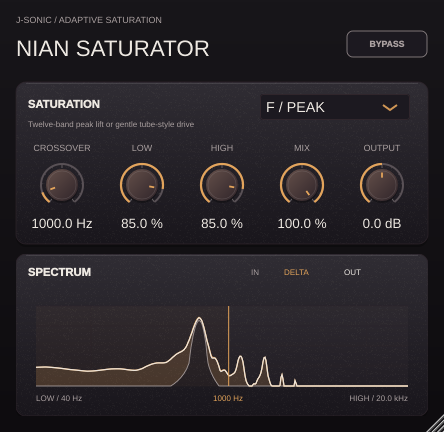
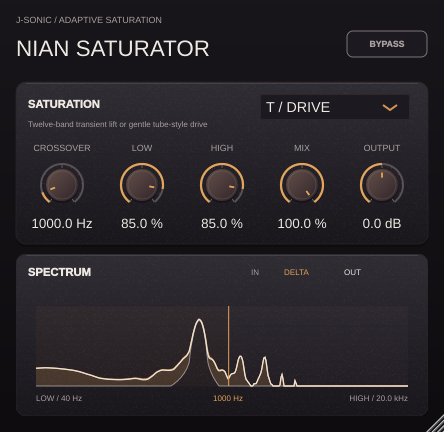
Make Nian F mode transient-only

diff --git a/projects/NianSaturator/Source/PluginProcessor.cpp b/projects/NianSaturator/Source/PluginProcessor.cpp
@@ -21,7 +21,7 @@ juce::AudioProcessorEditor* NianSaturatorProcessor::createEditor() { return new 
 void NianSaturatorProcessor::getStateInformation(juce::MemoryBlock& data) { if(auto xml=parameters.copyState().createXml()) copyXmlToBinary(*xml,data); }
 void NianSaturatorProcessor::setStateInformation(const void* data,int size) { if(auto xml=getXmlFromBinary(data,size)) if(xml->hasTagName(parameters.state.getType())) parameters.replaceState(juce::ValueTree::fromXml(*xml)); }
 juce::AudioProcessor* JUCE_CALLTYPE createPluginFilter() { return new NianSaturatorProcessor(); }
-void NianSaturatorProcessor::prepareToPlay(double rate,int) { stopAnalysisWorker(); sampleRate=4.f*float(std::isfinite(rate)&&rate>=8000?rate:48000); ring.fill(0); spectrum.fill(0); lowState={}; z1={}; z2={}; coefficientState={}; tubeDcState={}; tubeRmsState={}; tubeGainState={{{1,1},{1,1}}}; peakTarget={}; peakEnvelope={}; pendingPeakFrequency={}; retuning={}; ringPosition=analysisCounter=0; fSuspended=tubeSuspended=false; recentInputPeak=0; recoveryMix=1; analysisGeneration=0; lastPeakMode=parameters.getRawParameterValue("mode")->load()<.5f;
+void NianSaturatorProcessor::prepareToPlay(double rate,int) { stopAnalysisWorker(); sampleRate=4.f*float(std::isfinite(rate)&&rate>=8000?rate:48000); ring.fill(0); spectrum.fill(0); lowState={}; z1={}; z2={}; coefficientState={}; tubeDcState={}; tubeRmsState={}; tubeGainState={{{1,1},{1,1}}}; peakTarget={}; peakEnvelope={}; peakHoldSamples={}; peakCooldownSamples={}; recentPeakSamples={}; pendingPeakFrequency={}; retuning={}; ringPosition=analysisCounter=0; fSuspended=tubeSuspended=false; recentInputPeak=0; recoveryMix=1; onsetFast=onsetSlow=0; onsetRefractory=0; onsetArmed=true; analysisGeneration=0; lastPeakMode=parameters.getRawParameterValue("mode")->load()<.5f;
     displaySampleRate.store(sampleRate/4.f,std::memory_order_relaxed);
     for (auto& converter : converters) converter.prepare();
     dryHistory = {}; dryPosition = 0;
@@ -175,15 +175,20 @@ void NianSaturatorProcessor::process(juce::AudioBuffer<float>& b,bool hostBypass
         1.f/(std::atan(drives[0]*(1.f+biases[0]))-centers[0]),
         1.f/(std::atan(drives[1]*(1.f+biases[1]))-centers[1])};
     const bool peakMode=get("mode")<.5f, bypass=hostBypass || get("bypass")>.5f;
-    if(peakMode!=lastPeakMode) { ++analysisGeneration; lastPeakMode=peakMode; }
+    if(peakMode!=lastPeakMode)
+    { ++analysisGeneration; lastPeakMode=peakMode; onsetFast=onsetSlow=0; onsetRefractory=0; onsetArmed=true; }
     crossoverAlpha.setTargetValue(1-std::exp(-juce::MathConstants<float>::twoPi*crossover/sampleRate));
     modeBlend.setTargetValue(peakMode ? 0.f : 1.f); bypassBlend.setTargetValue(bypass ? 1.f : 0.f);
     mixBlend.setTargetValue(std::clamp(get("mix")*.01f,0.f,1.f));
     int writeStart1,writeSize1,writeStart2,writeSize2;
     displayFifo.prepareToWrite(b.getNumSamples(),writeStart1,writeSize1,writeStart2,writeSize2);
     const auto coefficientStep=1-std::exp(-1.f/(.005f*sampleRate));
-    const auto peakAttackStep=1-std::exp(-1.f/(.004f*sampleRate));
-    const auto peakReleaseStep=1-std::exp(-1.f/(.025f*sampleRate));
+    const auto peakAttackStep=1-std::exp(-1.f/(.001f*sampleRate));
+    const auto peakReleaseStep=1-std::exp(-1.f/(.006f*sampleRate));
+    const auto peakHold=std::max(1,juce::roundToInt(.002f*sampleRate));
+    const auto peakCooldown=std::max(1,juce::roundToInt(.035f*sampleRate));
+    const auto onsetFastStep=1-std::exp(-1.f/(.002f*sampleRate*.25f));
+    const auto onsetSlowStep=1-std::exp(-1.f/(.05f*sampleRate*.25f));
     const auto retuneFadeStep=1.f/(.008f*sampleRate);
     const auto dcStep=1-std::exp(-juce::MathConstants<float>::twoPi*8.f/sampleRate);
     const auto tubeDetectorStep=1-std::exp(-1.f/(.005f*sampleRate));
@@ -215,6 +220,23 @@ void NianSaturatorProcessor::process(juce::AudioBuffer<float>& b,bool hostBypass
             if(std::isfinite(input) && std::abs(input)>std::abs(signal)) signal=input;
         }
         ring[size_t(ringPosition)]=signal; ringPosition=(ringPosition+1)%int(ring.size());
+        for(auto& recent : recentPeakSamples) if(recent>0) --recent;
+        if(peakMode)
+        {
+            const auto level=std::abs(signal);
+            onsetFast+=onsetFastStep*(level-onsetFast);
+            onsetSlow+=onsetSlowStep*(level-onsetSlow);
+            if(onsetRefractory>0) --onsetRefractory;
+            if(onsetFast<1.35f*onsetSlow || onsetFast<.002f) onsetArmed=true;
+            if(onsetArmed && onsetRefractory==0 && onsetFast>std::max(.018f,1.8f*onsetSlow))
+            {
+                onsetArmed=false;
+                onsetRefractory=juce::roundToInt(.035f*sampleRate*.25f);
+                for(size_t band=0;band<peakTarget.size();++band)
+                    if((peakTarget[band]>.5f || recentPeakSamples[band]>0) && !retuning[band])
+                    { peakHoldSamples[band]=peakHold; peakCooldownSamples[band]=peakCooldown; }
+            }
+        }
         if((analysisCounter&63)==0)
         {
             AnalysisResult result;
@@ -226,11 +248,17 @@ void NianSaturatorProcessor::process(juce::AudioBuffer<float>& b,bool hostBypass
                     const auto index=size_t(slot);
                     if(result.target[index]>.5f)
                     {
+                        recentPeakSamples[index]=juce::roundToInt(.12f*sampleRate*.25f);
                         const auto selected=result.frequency[index];
                         if(peakTarget[index]<.5f && peakEnvelope[index]<.01f)
                         {
                             peakEnvelope[index]=0;
                             for(int ch=0;ch<2;++ch) z1[size_t(ch)][index]=z2[size_t(ch)][index]=0;
+                        }
+                        if(peakTarget[index]<.5f && peakCooldownSamples[index]==0)
+                        {
+                            peakHoldSamples[index]=peakHold;
+                            peakCooldownSamples[index]=peakCooldown;
                         }
                         if(peakEnvelope[index]>.01f
                            && std::abs(std::log(selected/peakFrequency[index]))>.03f)
@@ -265,7 +293,7 @@ void NianSaturatorProcessor::process(juce::AudioBuffer<float>& b,bool hostBypass
             const auto alpha=crossoverAlpha.getNextValue(), mode=modeBlend.getNextValue();
             if(!peakMode && mode>=.9999f && !fSuspended)
             {
-                peakTarget={}; peakEnvelope={}; retuning={}; z1={}; z2={}; fSuspended=true;
+                peakTarget={}; peakEnvelope={}; peakHoldSamples={}; peakCooldownSamples={}; recentPeakSamples={}; retuning={}; z1={}; z2={}; fSuspended=true;
             }
             if(peakMode && mode<=.0001f && !tubeSuspended)
             {
@@ -275,6 +303,7 @@ void NianSaturatorProcessor::process(juce::AudioBuffer<float>& b,bool hostBypass
             for(size_t band=0;band<coefficients.size() && !fSuspended;++band)
             {
                 auto& envelope=peakEnvelope[band];
+                if(peakCooldownSamples[band]>0) --peakCooldownSamples[band];
                 if(retuning[band])
                 {
                     envelope=std::max(0.f,envelope-retuneFadeStep);
@@ -284,9 +313,16 @@ void NianSaturatorProcessor::process(juce::AudioBuffer<float>& b,bool hostBypass
                         for(int ch=0;ch<2;++ch) z1[size_t(ch)][band]=z2[size_t(ch)][band]=0;
                         retuning[band]=false;
                         updateCoefficients();
+                        peakHoldSamples[band]=peakHold;
+                        peakCooldownSamples[band]=peakCooldown;
                     }
                 }
-                else envelope+=(peakTarget[band]>envelope ? peakAttackStep : peakReleaseStep)*(peakTarget[band]-envelope);
+                else if(peakHoldSamples[band]>0)
+                {
+                    --peakHoldSamples[band];
+                    envelope+=peakAttackStep*(1.f-envelope);
+                }
+                else envelope-=peakReleaseStep*envelope;
                 const auto target=coefficients[band];
                 coefficientState[band][0]+=coefficientStep*(target.b0-coefficientState[band][0]);
                 coefficientState[band][1]+=coefficientStep*(target.a1-coefficientState[band][1]);
@@ -301,7 +337,7 @@ void NianSaturatorProcessor::process(juce::AudioBuffer<float>& b,bool hostBypass
                 if(!fSuspended && mode<.9999f)
                     for(size_t band=0;band<coefficients.size();++band)
                     {
-                        if(peakTarget[band]<.5f && peakEnvelope[band]<1.e-5f) continue;
+                        if(peakEnvelope[band]<1.e-5f) continue;
                         const auto& c=coefficientState[band];
                         const auto side=band/6;
                         const auto filtered=c[0]*bands[side]+z1[index][band];
@@ -353,7 +389,7 @@ void NianSaturatorProcessor::process(juce::AudioBuffer<float>& b,bool hostBypass
             // non-finite output indefinitely. Fall back to latency-aligned dry
             // audio and fade the rebuilt processing path back in.
             for(auto& converter : converters) converter.reset();
-            lowState={}; z1={}; z2={}; tubeDcState={}; tubeRmsState={}; tubeGainState={{{1,1},{1,1}}}; peakTarget={}; peakEnvelope={}; retuning={}; coefficientState={}; tubeSuspended=false;
+            lowState={}; z1={}; z2={}; tubeDcState={}; tubeRmsState={}; tubeGainState={{{1,1},{1,1}}}; peakTarget={}; peakEnvelope={}; peakHoldSamples={}; peakCooldownSamples={}; recentPeakSamples={}; retuning={}; coefficientState={}; tubeSuspended=false;
             const auto maximum=std::min(20000.f,sampleRate*.1125f);
             for(int slot=0;slot<fBandCount;++slot)
                 if(!std::isfinite(peakFrequency[size_t(slot)]) || peakFrequency[size_t(slot)]<40.f || peakFrequency[size_t(slot)]>maximum)

diff --git a/projects/NianSaturator/Tests/ProcessorTests.cpp b/projects/NianSaturator/Tests/ProcessorTests.cpp
@@ -15,7 +15,6 @@ struct NianSaturatorTestAccess
     static float envelope(const NianSaturatorProcessor& p,int slot) { return p.peakEnvelope[size_t(slot)]; }
     static float frequency(const NianSaturatorProcessor& p,int slot) { return p.peakFrequency[size_t(slot)]; }
     static float target(const NianSaturatorProcessor& p,int slot) { return p.peakTarget[size_t(slot)]; }
-    static bool retuning(const NianSaturatorProcessor& p,int slot) { return p.retuning[size_t(slot)]; }
     static void poison(NianSaturatorProcessor& p)
     {
         p.peakTarget[0]=p.peakEnvelope[0]=1;
@@ -121,22 +120,48 @@ int main(int argc,char** argv)
         NianSaturatorProcessor flat, enhanced;
         for (auto* processor : {&flat,&enhanced}) { set(*processor,"crossover",1000); processor->prepareToPlay(48000,128); }
         set(flat,"lowDrive",0); set(flat,"highDrive",0); set(enhanced,"lowDrive",100); set(enhanced,"highDrive",100);
-        juce::AudioBuffer<float> clean(2,128), shaped(2,128); std::array<std::complex<double>,2> before {}, after {};
+        juce::AudioBuffer<float> clean(2,128), shaped(2,128);
+        float maxTransientDelta=0, maxLowEnvelope=0, maxHighEnvelope=0;
         for(int block=0;block<400;++block)
         {
             for(int i=0;i<128;++i) { const auto n=block*128+i; const auto x=float(.08*std::sin(juce::MathConstants<double>::twoPi*700*n/48000)+.08*std::sin(juce::MathConstants<double>::twoPi*4000*n/48000)); for(int ch=0;ch<2;++ch) {clean.setSample(ch,i,x); shaped.setSample(ch,i,x);} }
             flat.processBlock(clean,midi); enhanced.processBlock(shaped,midi);
-            if(block>=300) for(int i=0;i<128;++i) for(int band=0;band<2;++band)
-            { const auto hz=band==0?700.:4000.; const auto phase=std::polar(1.,-juce::MathConstants<double>::twoPi*hz*(block*128+i)/48000); before[size_t(band)]+=double(clean.getSample(0,i))*phase; after[size_t(band)]+=double(shaped.getSample(0,i))*phase; }
+            maxLowEnvelope=std::max(maxLowEnvelope,NianSaturatorTestAccess::envelope(enhanced,5));
+            maxHighEnvelope=std::max(maxHighEnvelope,NianSaturatorTestAccess::envelope(enhanced,8));
+            if(block<100) for(int i=0;i<128;++i)
+                maxTransientDelta=std::max(maxTransientDelta,std::abs(shaped.getSample(0,i)-clean.getSample(0,i)));
         }
-        for(int band=0;band<2;++band) if(std::abs(after[size_t(band)])<std::abs(before[size_t(band)])*1.2) throw std::runtime_error("F mode must enhance detected peaks in both bands");
+        if(maxLowEnvelope<.5f || maxHighEnvelope<.5f || maxTransientDelta<.005f
+           || NianSaturatorTestAccess::envelope(enhanced,5)>.05f
+           || NianSaturatorTestAccess::envelope(enhanced,8)>.05f)
+            throw std::runtime_error("F mode must enhance detected transients and release during sustained tones");
+        {
+            NianSaturatorProcessor repeated;
+            set(repeated,"crossover",1000); set(repeated,"lowDrive",100);
+            repeated.prepareToPlay(48000,128);
+            juce::AudioBuffer<float> note(2,128); juce::MidiBuffer empty;
+            float secondStrike=0;
+            for(int block=0;block<300;++block)
+            {
+                for(int i=0;i<128;++i)
+                {
+                    const auto active=block<150 || block>=170;
+                    const auto x=active ? float(.2*std::sin(juce::MathConstants<double>::twoPi*700*(block*128+i)/48000)) : 0.f;
+                    note.setSample(0,i,x); note.setSample(1,i,x);
+                }
+                repeated.processBlock(note,empty);
+                if(block>=170 && block<180)
+                    secondStrike=std::max(secondStrike,NianSaturatorTestAccess::envelope(repeated,5));
+            }
+            if(secondStrike<.5f || NianSaturatorTestAccess::envelope(repeated,5)>.05f)
+                throw std::runtime_error("a repeated note must get a fresh short F pulse without sustained lift");
+        }
         {
             NianSaturatorProcessor shifting;
             set(shifting,"crossover",1000); set(shifting,"lowDrive",100); set(shifting,"highDrive",0);
             shifting.prepareToPlay(48000,128);
             juce::AudioBuffer<float> note(2,128); juce::MidiBuffer empty;
             double phase=0, peakJump=0; float previous=0;
-            bool sawRetune=false;
             for(int block=0;block<750;++block)
             {
                 const auto hz=block<250 ? 700. : block<500 ? 850. : 700.;
@@ -147,8 +172,6 @@ int main(int argc,char** argv)
                     note.setSample(0,i,x); note.setSample(1,i,x);
                 }
                 shifting.processBlock(note,empty);
-                if((block>=250 && block<400) || (block>=500 && block<650))
-                    sawRetune=sawRetune || NianSaturatorTestAccess::retuning(shifting,5);
                 if(block==400 && std::abs(NianSaturatorTestAccess::frequency(shifting,5)-850.f)>35.f)
                     throw std::runtime_error("F detector must follow a changed pitch within a peak cell");
                 for(int i=0;i<128;++i)
@@ -160,7 +183,7 @@ int main(int argc,char** argv)
                     previous=value;
                 }
             }
-            if(!sawRetune || peakJump>.16)
+            if(peakJump>.16)
                 throw std::runtime_error("F retune must not click when piano pitch changes");
         }
         {
@@ -416,7 +439,7 @@ int main(int argc,char** argv)
                 || std::any_of(notePower.begin(),notePower.end(),[](double power){return power<1;}))
                 throw std::runtime_error("F mode must keep the first 5 ms of a piano attack clean without spikes or silence");
         }
-        set(p,"mode",0); set(p,"crossover",1000); set(p,"lowDrive",85); set(p,"highDrive",85);
+        set(p,"mode",1); set(p,"crossover",1000); set(p,"lowDrive",85); set(p,"highDrive",85);
         for(int block=0;block<80;++block)
         {
             for(int i=0;i<128;++i)

diff --git a/projects/NianSaturator/Source/PluginEditor.cpp b/projects/NianSaturator/Source/PluginEditor.cpp
@@ -46,7 +46,7 @@ NianSaturatorEditor::NianSaturatorEditor (NianSaturatorProcessor& p) : AudioProc
     mode.setColour (juce::ComboBox::outlineColourId, grid);
     mode.setColour (juce::ComboBox::arrowColourId, amber);
     mode.addItem ("F / PEAK",1); mode.addItem ("T / DRIVE",2);
-    mode.setTooltip ("Selects twelve-band peak enhancement or dynamically softened tube-style drive.");
+    mode.setTooltip ("Selects short twelve-band transient enhancement or dynamically softened tube-style drive.");
     addAndMakeVisible (mode); modeAttachment = std::make_unique<State::ComboBoxAttachment> (p.parameters,"mode",mode);
     editorScaling::enable (*this, designWidth, designHeight);
     gpu.attach (*this);
@@ -88,7 +88,7 @@ void NianSaturatorEditor::paint (juce::Graphics& g)
     g.setColour (foreground); g.setFont (juce::FontOptions (13.0f).withStyle ("bold"));
     g.drawText ("SATURATION", 28, 94, 380, 20, juce::Justification::centredLeft);
     g.setColour (secondary); g.setFont (juce::FontOptions (9.0f));
-    g.drawText ("Twelve-band peak lift or gentle tube-style drive", 28, 116, 380, 16, juce::Justification::centredLeft);
+    g.drawText ("Twelve-band transient lift or gentle tube-style drive", 28, 116, 380, 16, juce::Justification::centredLeft);
     g.restoreState();
 }
 NianSaturatorEditor::SignalDisplay::SignalDisplay (NianSaturatorProcessor& p) : processor (p)

diff --git a/projects/NianSaturator/Source/PluginProcessor.h b/projects/NianSaturator/Source/PluginProcessor.h
@@ -48,6 +48,8 @@ private:
     std::array<float,2> lowState {};
     std::array<std::array<float,fBandCount>,2> z1 {}, z2 {};
     std::array<float,fBandCount> peakFrequency {}, peakTarget {}, peakEnvelope {};
+    std::array<int,fBandCount> peakHoldSamples {}, peakCooldownSamples {};
+    std::array<int,fBandCount> recentPeakSamples {};
     std::array<float,fBandCount> pendingPeakFrequency {};
     std::array<bool,fBandCount> retuning {};
     std::array<std::array<float,3>,fBandCount> coefficientState {};
@@ -67,6 +69,9 @@ private:
     float sampleRate = 48000;
     bool fSuspended = false, tubeSuspended = false;
     float recentInputPeak = 0, recoveryMix = 1;
+    float onsetFast = 0, onsetSlow = 0;
+    int onsetRefractory = 0;
+    bool onsetArmed = true;
     struct AnalysisJob { std::array<float,4096> samples {}; float crossover = 1000, rate = 48000; unsigned generation = 0; };
     struct AnalysisResult { std::array<float,fBandCount> frequency {}, target {}; float crossover = 1000; unsigned generation = 0; };
     std::mutex jobMutex, resultMutex;

diff --git a/projects/NianSaturator/README.md b/projects/NianSaturator/README.md
@@ -2,7 +2,7 @@
 
 Two-band processor with a shared crossover, preventing overlapping cutoff
 settings. F mode tracks twelve spectrally prominent peaks in separate frequency
-cells and adds narrow bandpass emphasis; T mode applies gentle tube-style drive
+cells and adds short bandpass pulses to detected onsets; T mode applies gentle tube-style drive
 independently to the two bands.
 Low and High set their respective amounts, Mix blends the dry and processed
 signals, and Output sets the final level.
@@ -24,9 +24,14 @@ peak and add a Q=24 bandpass. The detector refines peaks between FFT bins;
 the FFT and candidate search run on a separate worker thread using preallocated
 snapshots and a nonblocking audio-thread handoff. A busy worker may skip a
 snapshot, and results from an earlier mode or crossover setting are discarded.
-Band gain rises in 4 ms and falls in 25 ms. A pitch jump exceeding 3% within
-an active cell fades that band's gain down over 8 ms, resets its filter state,
-and fades the newly tuned band in; smaller retunes use 5 ms coefficient smoothing.
+Each new peak gets a 2 ms hold with a 1 ms attack and a 6 ms exponential decay,
+then returns toward dry even if the tone sustains. A 35 ms cooldown prevents
+brief detector dropouts from repeatedly lifting the same tone. A pitch jump
+exceeding 3% within an active cell fades that band's gain down over 8 ms,
+resets its filter state, and starts a fresh short pulse at the new pitch;
+smaller retunes use 5 ms coefficient smoothing.
+An independent level-rise detector can retrigger a recently tracked band when
+the same note is struck again, even if the long FFT still reports that pitch.
 Crossover, mode, Mix and bypass transitions are smoothed over 20 ms. The F
 detector reads the live input while the audio path is delayed by 5 ms, so its
 peak decisions lead the sound reaching the filters. T mode uses a lightly

diff --git a/README.md b/README.md
@@ -30,7 +30,7 @@ OpenGL with a software fallback. See [GPU rendering and validation](projects/GPU
 | [Kuo Velvet](projects/KuoVelvet/README.md) | `KuoVelvet` | Convolution widening | Kuo's Velvet stage with Width, Transient, Attack, and Output controls |
 | [Xuan Phase](projects/XuanPhase/README.md) | `XuanPhase` | Phase rotation | Independent low/high rotation, 25 ms lookahead, spectral transient alignment and Auto Depth |
 | [Lan Reverb](projects/LanReverb/README.md) | `LanReverb` | Reverb / delay | Long stereo tails, live feedback-tap scattering, automatic resonance EQ and phase dispersion |
-| [Nian Saturator](projects/NianSaturator/README.md) | `NianSaturator` | Two-band saturation | 4× twelve-band peak enhancement with 5 ms lookahead or dynamically softened tube-style drive, Mix, and crossover spectrum display |
+| [Nian Saturator](projects/NianSaturator/README.md) | `NianSaturator` | Two-band saturation | 4× twelve-band transient enhancement with 5 ms lookahead or dynamically softened tube-style drive, Mix, and crossover spectrum display |
 
 ### Yinyang Compressor
 
@@ -179,8 +179,8 @@ feedback unchanged; Auto reduces detected ringing.
 
 ![Nian Saturator with crossover, low and high amounts, Mix, mode selector, and input, delta, and output spectra](projects/NianSaturator/Previews/nian-saturator.png)
 
-Split the signal at a shared crossover. **F** tracks twelve spectral peaks
-with narrow Q=24 filters and 5 ms lookahead; **T** applies gentle, slightly
+Split the signal at a shared crossover. **F** gives detected onsets short pulses
+through twelve narrow Q=24 filters with 5 ms lookahead; **T** applies gentle, slightly
 asymmetric tube-style drive with dynamic smoothing of the added harmonics.
 Both modes run at 4×. The lower display marks the crossover and overlays the
 input, generated delta, and resulting spectra.

diff --git a/projects/NianSaturator/Tests/Reports/processor.md b/projects/NianSaturator/Tests/Reports/processor.md
@@ -9,12 +9,15 @@ processor test are built from the project CMake file.
 - A driven 10 kHz sine checks that the folded 30 kHz third harmonic at 18 kHz
   remains below 3% of the fundamental after 4× processing and downsampling.
 - Simultaneous 700 Hz and 4 kHz tones, split at 1 kHz, verify that F mode
-  enhances each detected component by at least 20% relative to zero amounts.
+  produces a brief transient delta in both regions, then returns both band
+  envelopes below 0.05 during the sustained tones. A second 700 Hz strike
+  retriggers a short pulse and decays again, even when the peak was recently
+  tracked by the detector.
 - A phase-continuous 700→850→700 Hz note verifies that one active F cell follows
   the new pitch without a sample jump above 0.16.
 - Twelve simultaneous tones verify that all six low and six high F cells track
-  distinct peaks, while an 88 Hz onset reaches the new band-gain target within
-  512 host samples without a waveform jump above 0.08.
+  distinct peaks, while an 88 Hz onset acquires its short band-gain pulse
+  without a waveform jump above 0.08.
 - T mode at maximum amounts must change the signal while its 3 kHz output
   remains within 1.05–1.6 times dry RMS and below 0.01 average DC level; its
   second harmonic must be present and its third below 10% of the fundamental.

diff --git a/projects/NianSaturator/TOOLTIPS.md b/projects/NianSaturator/TOOLTIPS.md
@@ -2,7 +2,7 @@
 
 | Control | Hint |
 |---|---|
-| Mode | Selects twelve-band peak enhancement or dynamically softened tube-style drive. |
+| Mode | Selects short twelve-band transient enhancement or dynamically softened tube-style drive. |
 | Crossover | Sets the frequency where the low and high bands meet. |
 | Low | Sets the low-band peak enhancement or drive. |
 | High | Sets the high-band peak enhancement or drive. |
